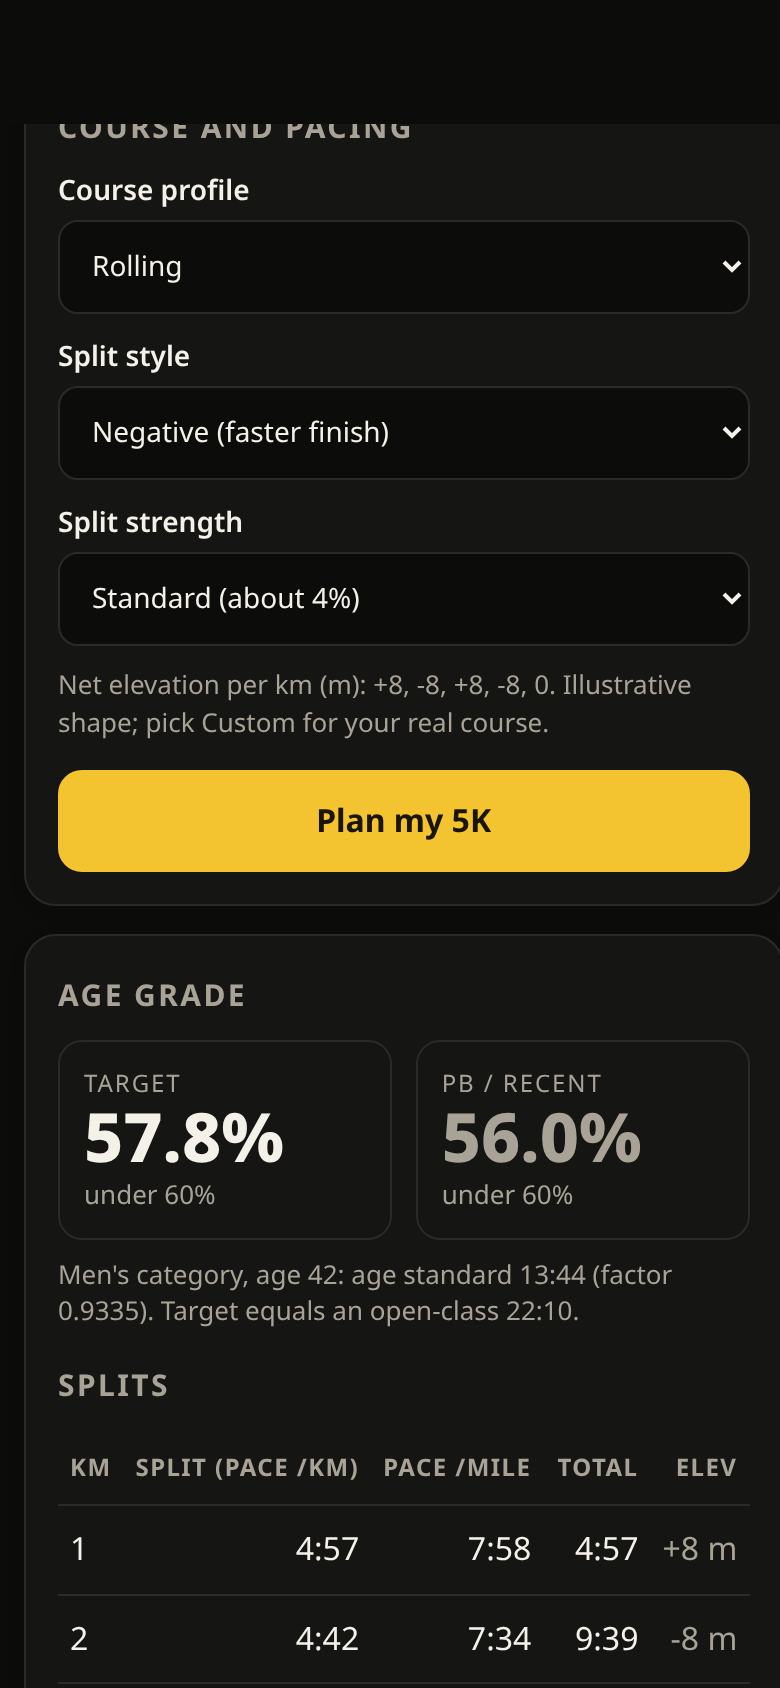
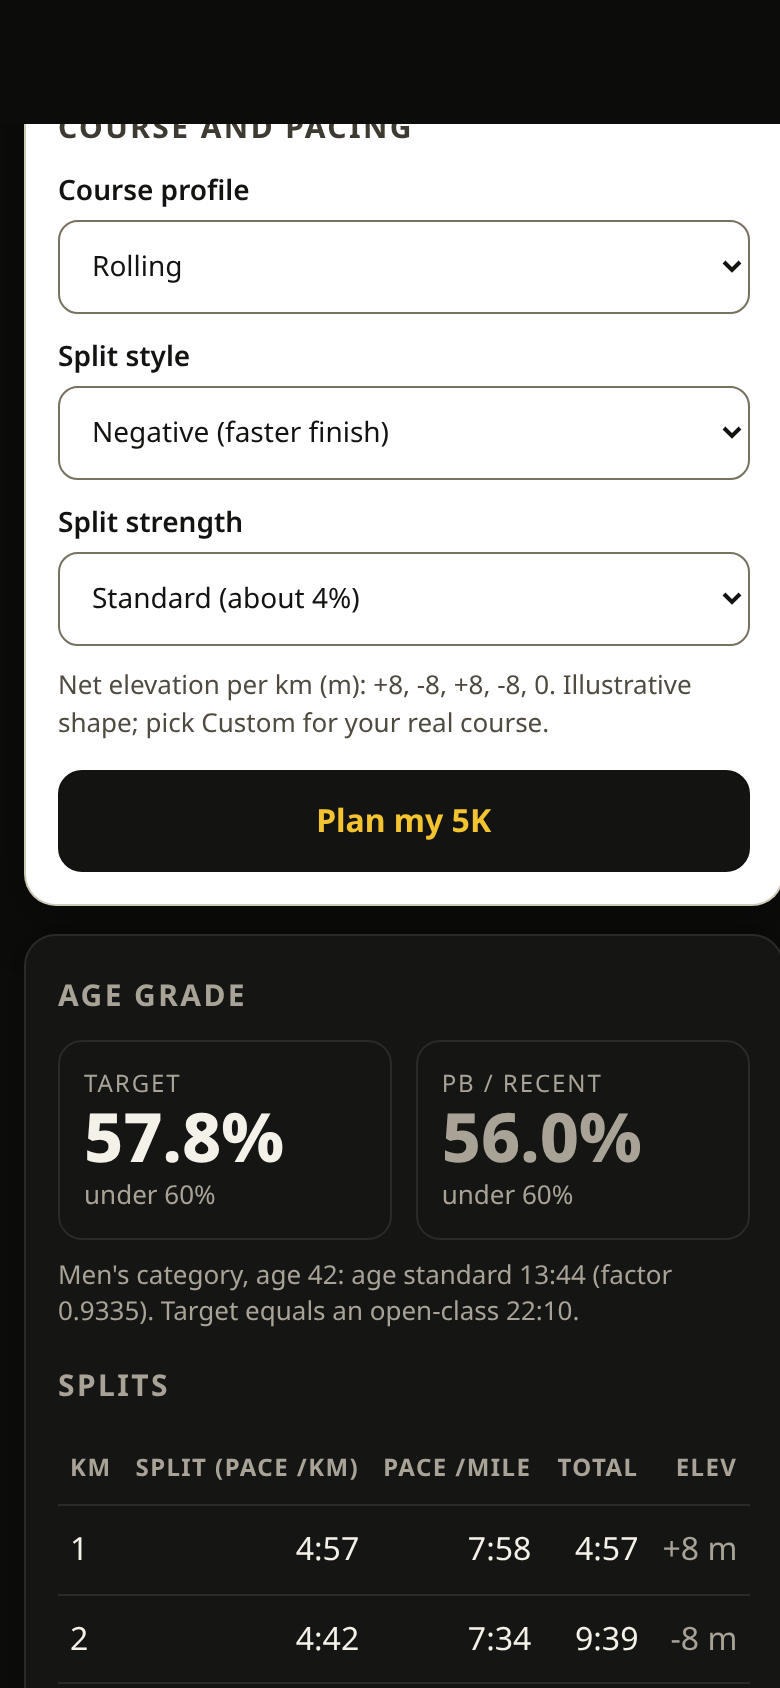
White input card on the near-black page; refreshed screenshots; build log

diff --git a/style.css b/style.css
@@ -52,3 +52,16 @@ textarea { margin-top:10px; font-family:ui-monospace, Menlo, Consolas, monospace
 a { color:var(--ink); text-decoration-color:var(--gold); text-decoration-thickness:2px; text-underline-offset:3px; } @media (prefers-color-scheme: dark) { a { color:var(--gold); } }
 footer { text-align:center; color:var(--muted); font-size:13px; padding:8px 12px 28px; }
 @media (prefers-reduced-motion: no-preference) { button { transition: transform .08s; } button:active { transform:scale(.98); } }
+
+/* Input card: white so it stands out from the near-black page. Same in light and dark themes. */
+#form { --card:#ffffff; --ink:#131311; --muted:#4f4b40; --line:#77725f; color:var(--ink); color-scheme:light;
+  background:#ffffff; border:1px solid #cfc9b8; border-top:4px solid var(--gold); box-shadow:0 8px 28px rgba(0,0,0,.35), 0 1px 0 rgba(255,255,255,.6) inset; }
+@media (prefers-color-scheme: light) { #form { box-shadow:0 6px 22px rgba(20,18,10,.14); border-color:#cfc9b8; } }
+#form h2 { color:#3d3a31; }
+#form input, #form select { background:#ffffff; color:#131311; border:1.5px solid #77725f; }
+#form input::placeholder { color:#6b6657; opacity:1; }
+#form input:hover, #form select:hover { border-color:#131311; }
+#form input:focus, #form select:focus { border-color:#131311; outline:3px solid var(--gold); outline-offset:1px; box-shadow:0 0 0 1px #131311; }
+#form button:focus-visible { outline:3px solid #131311; outline-offset:2px; box-shadow:0 0 0 5px var(--gold); }
+#form button.primary { background:#131311; color:var(--gold); border-color:#131311; }
+#form .msg.error { color:#a3201a; border-color:#a3201a; }

diff --git a/docs/BUILD_LOG.md b/docs/BUILD_LOG.md
@@ -87,3 +87,10 @@ Instruction used: "Create a public repo under norris1976 and push; create a Verc
 - **Check:** new `tools/check-theme.mjs` (AA contrast of every text colour pair in light and dark: worst 6.06 and 7.26; zero green-ish pixels in the page and the share card). `tools/verify-and-screenshot.mjs` passes on the live URL (0 external requests, 0 console errors). Screenshots retaken in `docs/screenshots/` (plus `light/` and `dark/`).
 - **Deployed:** `vercel deploy --prod` (the GitHub link also builds on push); live https://saturday-5k-pace-planner.vercel.app returns 200 with the new CSS.
 - **What broke:** the contrast checker first failed on hero text because the hero uses a gradient background it did not read; fixed in the checker, not the app. Two production deploys ran (an earlier command's output was cut off, so I ran it again); both identical.
+
+## White input card (Mon 26 Oct, about 14:15 to 14:35 Europe/London)
+- **Why:** Tim likes the near-black and gold look but asked for the card holding the inputs to be white so it stands out.
+- **What:** CSS only, scoped to `#form` in `style.css`: white card with a gold top rule and a stronger shadow, dark text, inputs and selects with 1.5px dark-olive borders (about 4.7:1 on white, so the field edges are visible), hover darkens the border, focus shows a gold ring plus a dark inner edge so it is visible on white, near-black primary button with gold text, `color-scheme: light` on the form so native select menus are light. Same in dark and light themes (in light it sits on the off-white page with a soft shadow). Results, About and share card are unchanged. No markup, logic or test changes.
+- **Check:** 22 tests pass; `tools/check-theme.mjs` OK on the live URL (worst text contrast 6.06 light and 7.26 dark, no green pixels); `tools/verify-and-screenshot.mjs` OK live (0 external requests, 0 console errors). Screenshots at 390px and 1280px, dark and light, with focus state and the custom-elevation field, in `docs/screenshots/white-card/`; main screenshots retaken.
+- **Deployed:** `vercel deploy --prod`; https://5k.sportbuilds.co and the vercel.app alias return 200 and serve the new CSS.
+- **What broke:** nothing in the app. The deploy command's output was a long JSON block rather than a clean URL line, so I confirmed the deploy by fetching the live CSS instead.
